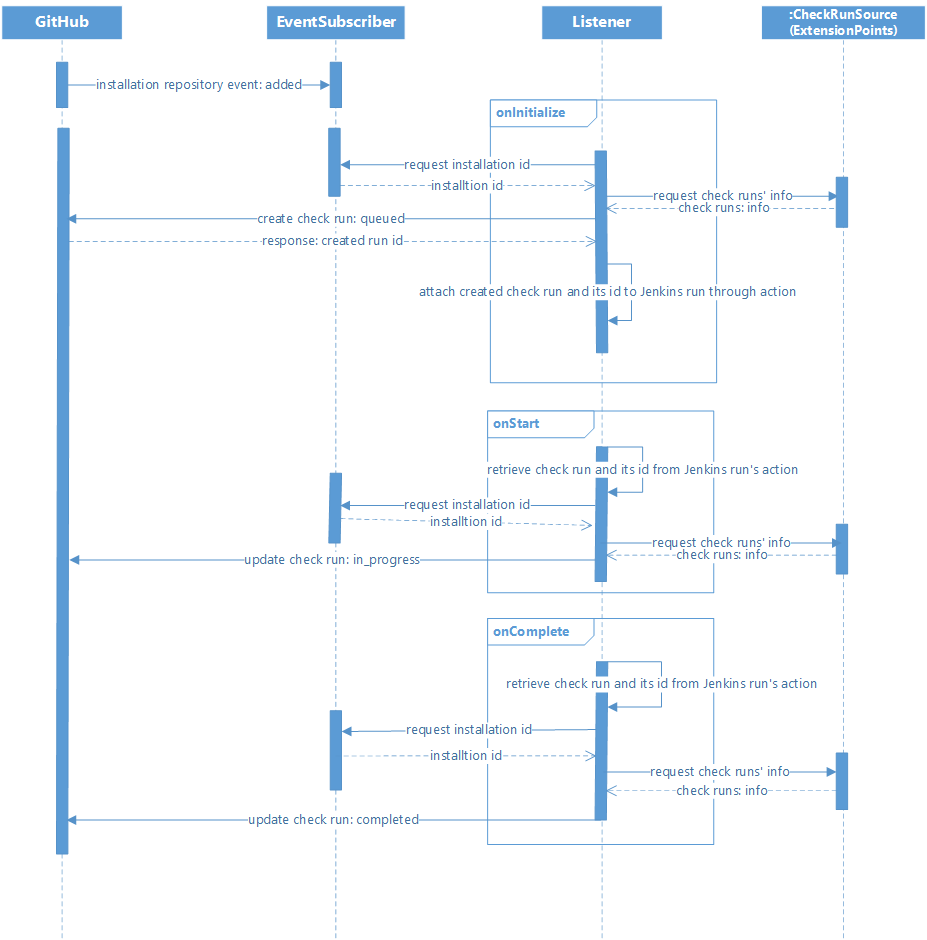
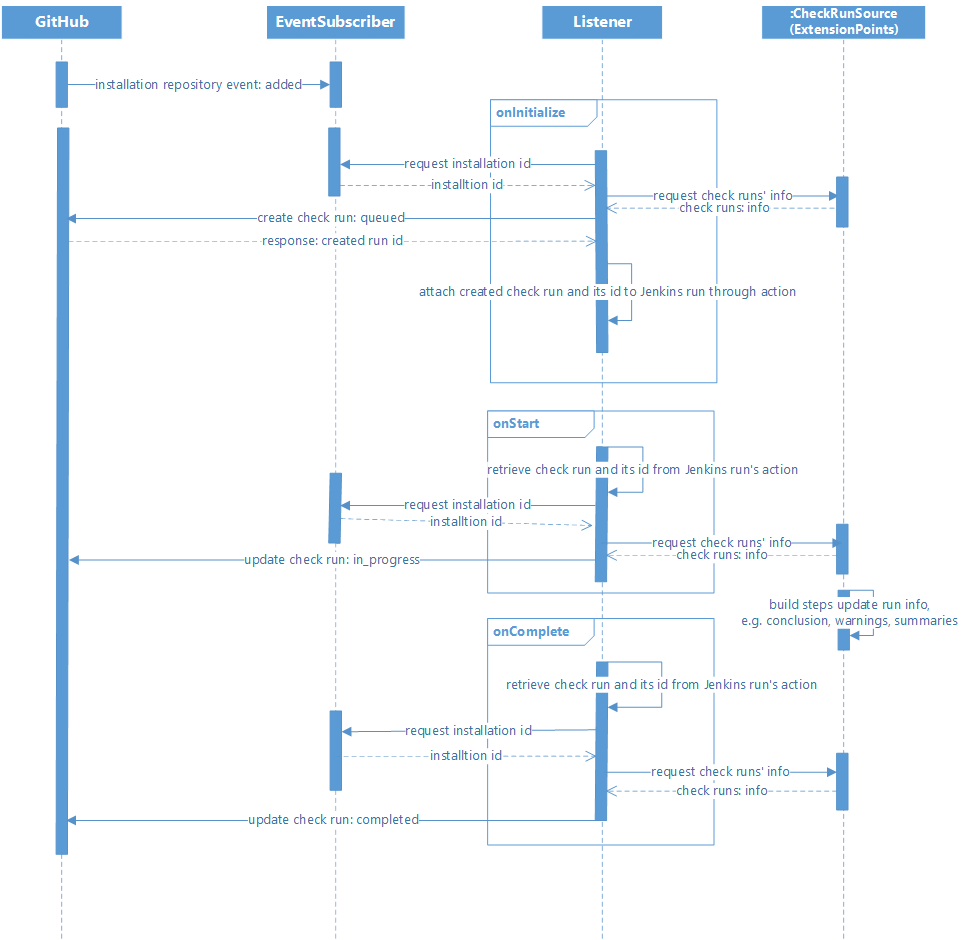
Improve docs and conlusion in CheckRunSource

diff --git a/src/main/java/io/jenkins/plugins/extension/CheckRunSource.java b/src/main/java/io/jenkins/plugins/extension/CheckRunSource.java
@@ -6,6 +6,7 @@ import java.util.List;
 import hudson.ExtensionList;
 import hudson.ExtensionPoint;
 import hudson.model.AbstractDescribableImpl;
+import hudson.model.Result;
 import hudson.model.Run;
 import jenkins.model.Jenkins;
 
@@ -33,6 +34,25 @@ public abstract class CheckRunSource extends AbstractDescribableImpl<CheckRunSou
 
     public Date getStartedAt(Run<?, ?> build) {
         return new Date(build.getStartTimeInMillis());
+    }
+
+    public String getConclusion(Run<?, ?> build) {
+        Result result = build.getResult();
+
+        String conclusion;
+        if (result == null) {
+            conclusion = "timed_out";
+        } else if (result.isBetterOrEqualTo(Result.SUCCESS)) {
+            conclusion =  "success";
+        } else if (result.isBetterOrEqualTo(Result.UNSTABLE)) {
+            conclusion = "neutral";
+        } else if (result.isBetterOrEqualTo(Result.FAILURE)) {
+            conclusion = "failure";
+        } else { // NOT_BUILD or ABORTED
+            conclusion = "cancelled";
+        }
+
+        return conclusion;
     }
 
     public Date getCompletedAt(Run<?, ?> build) {
